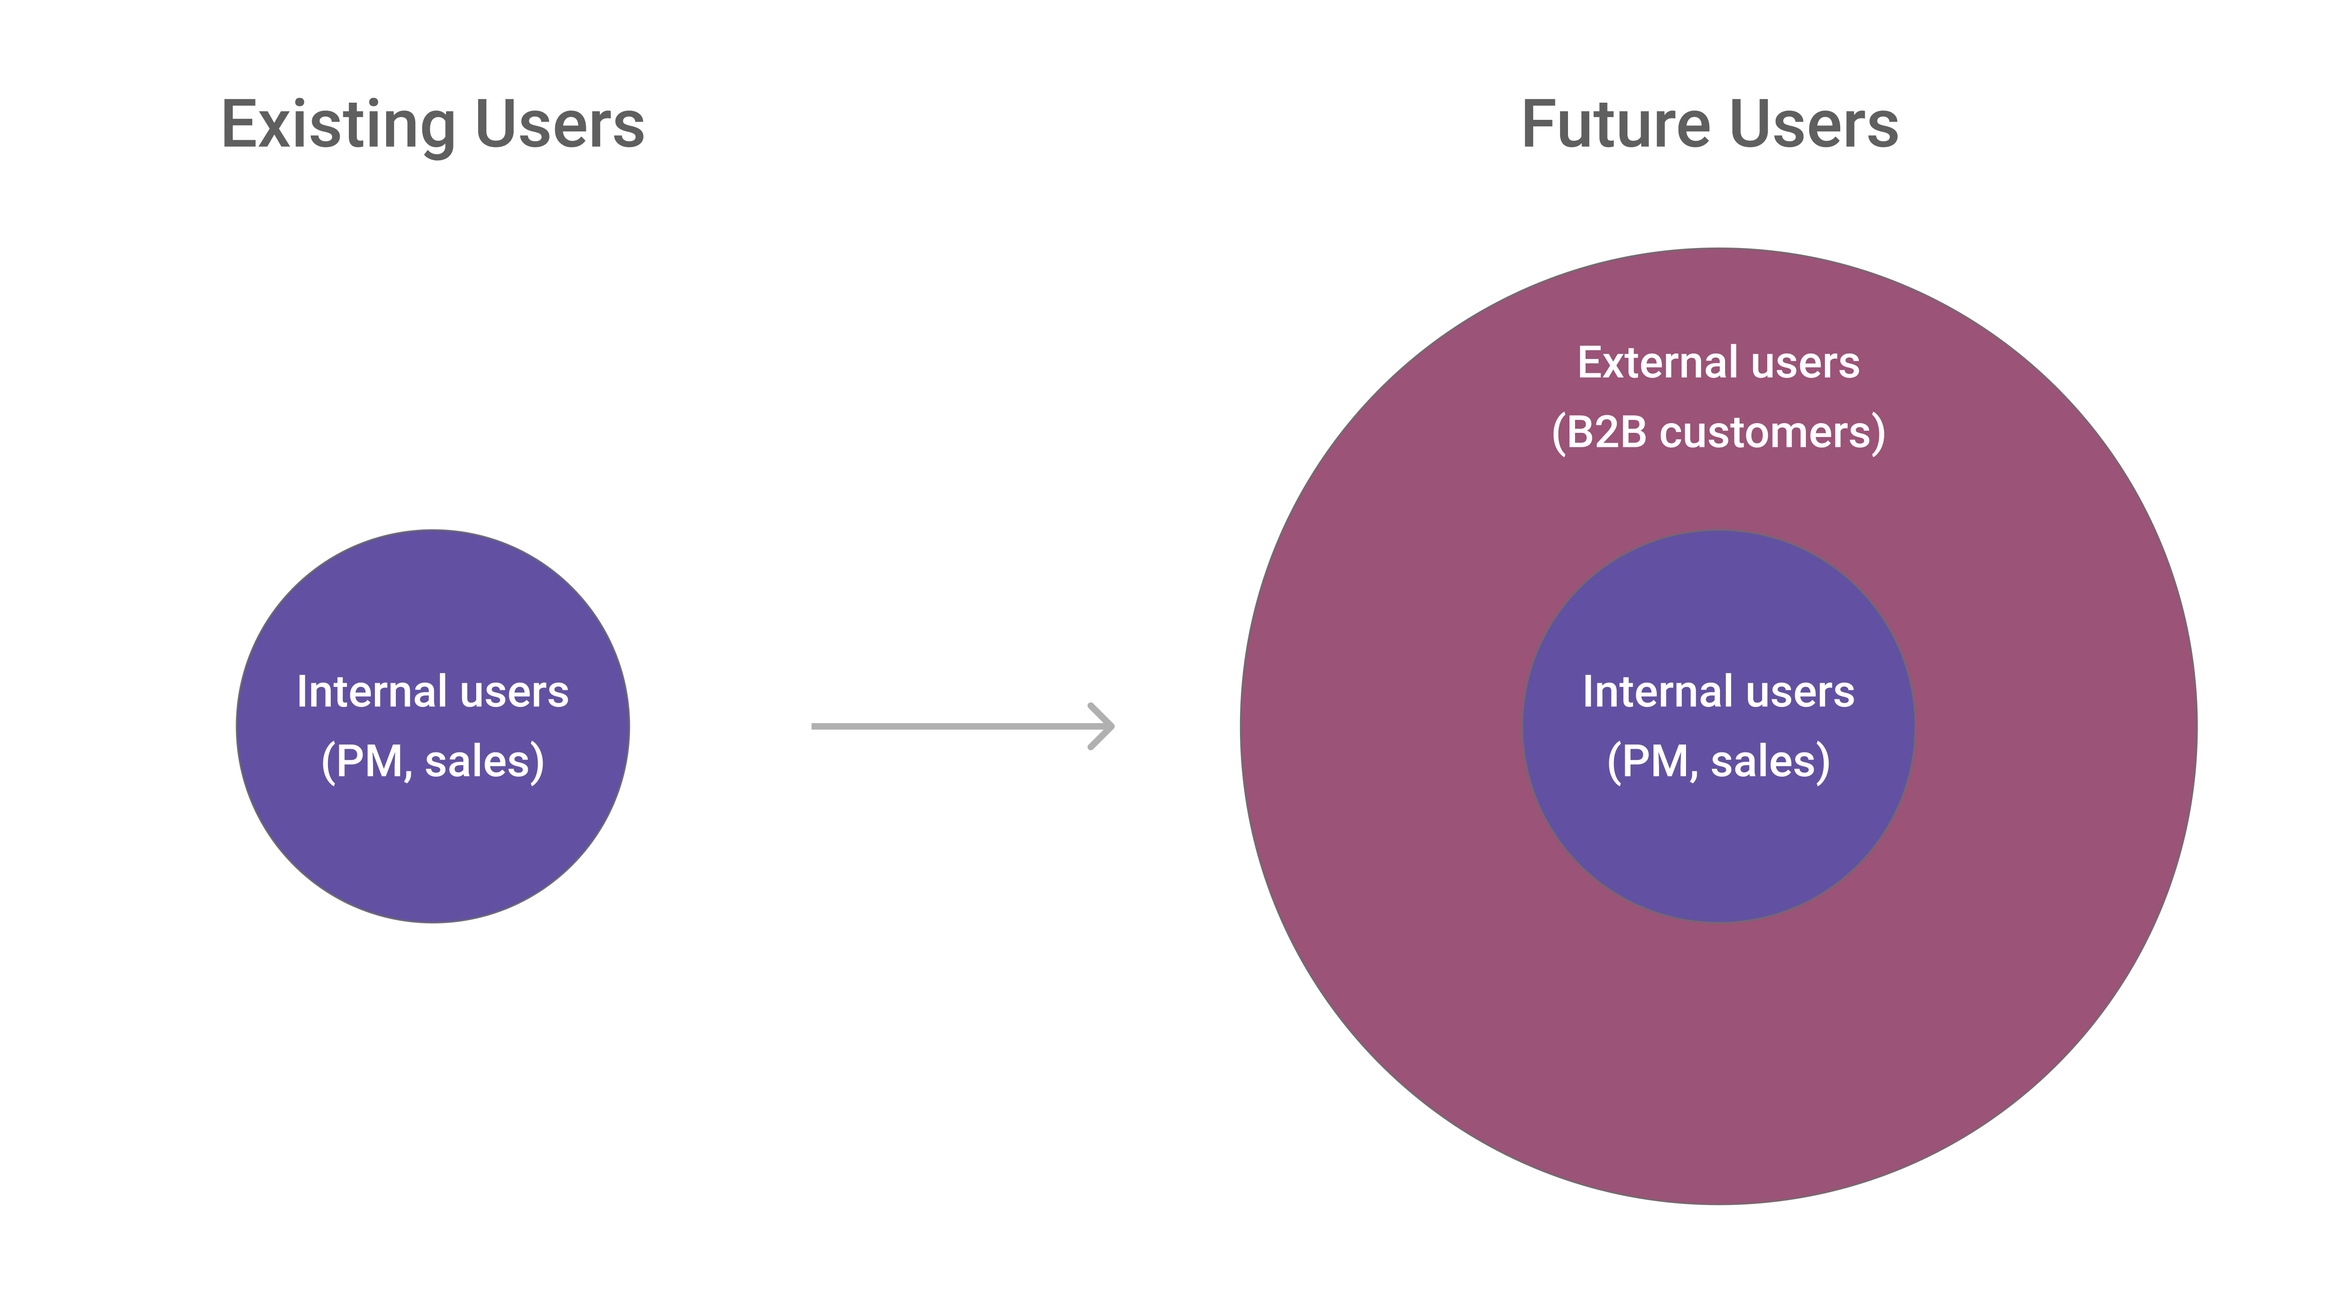
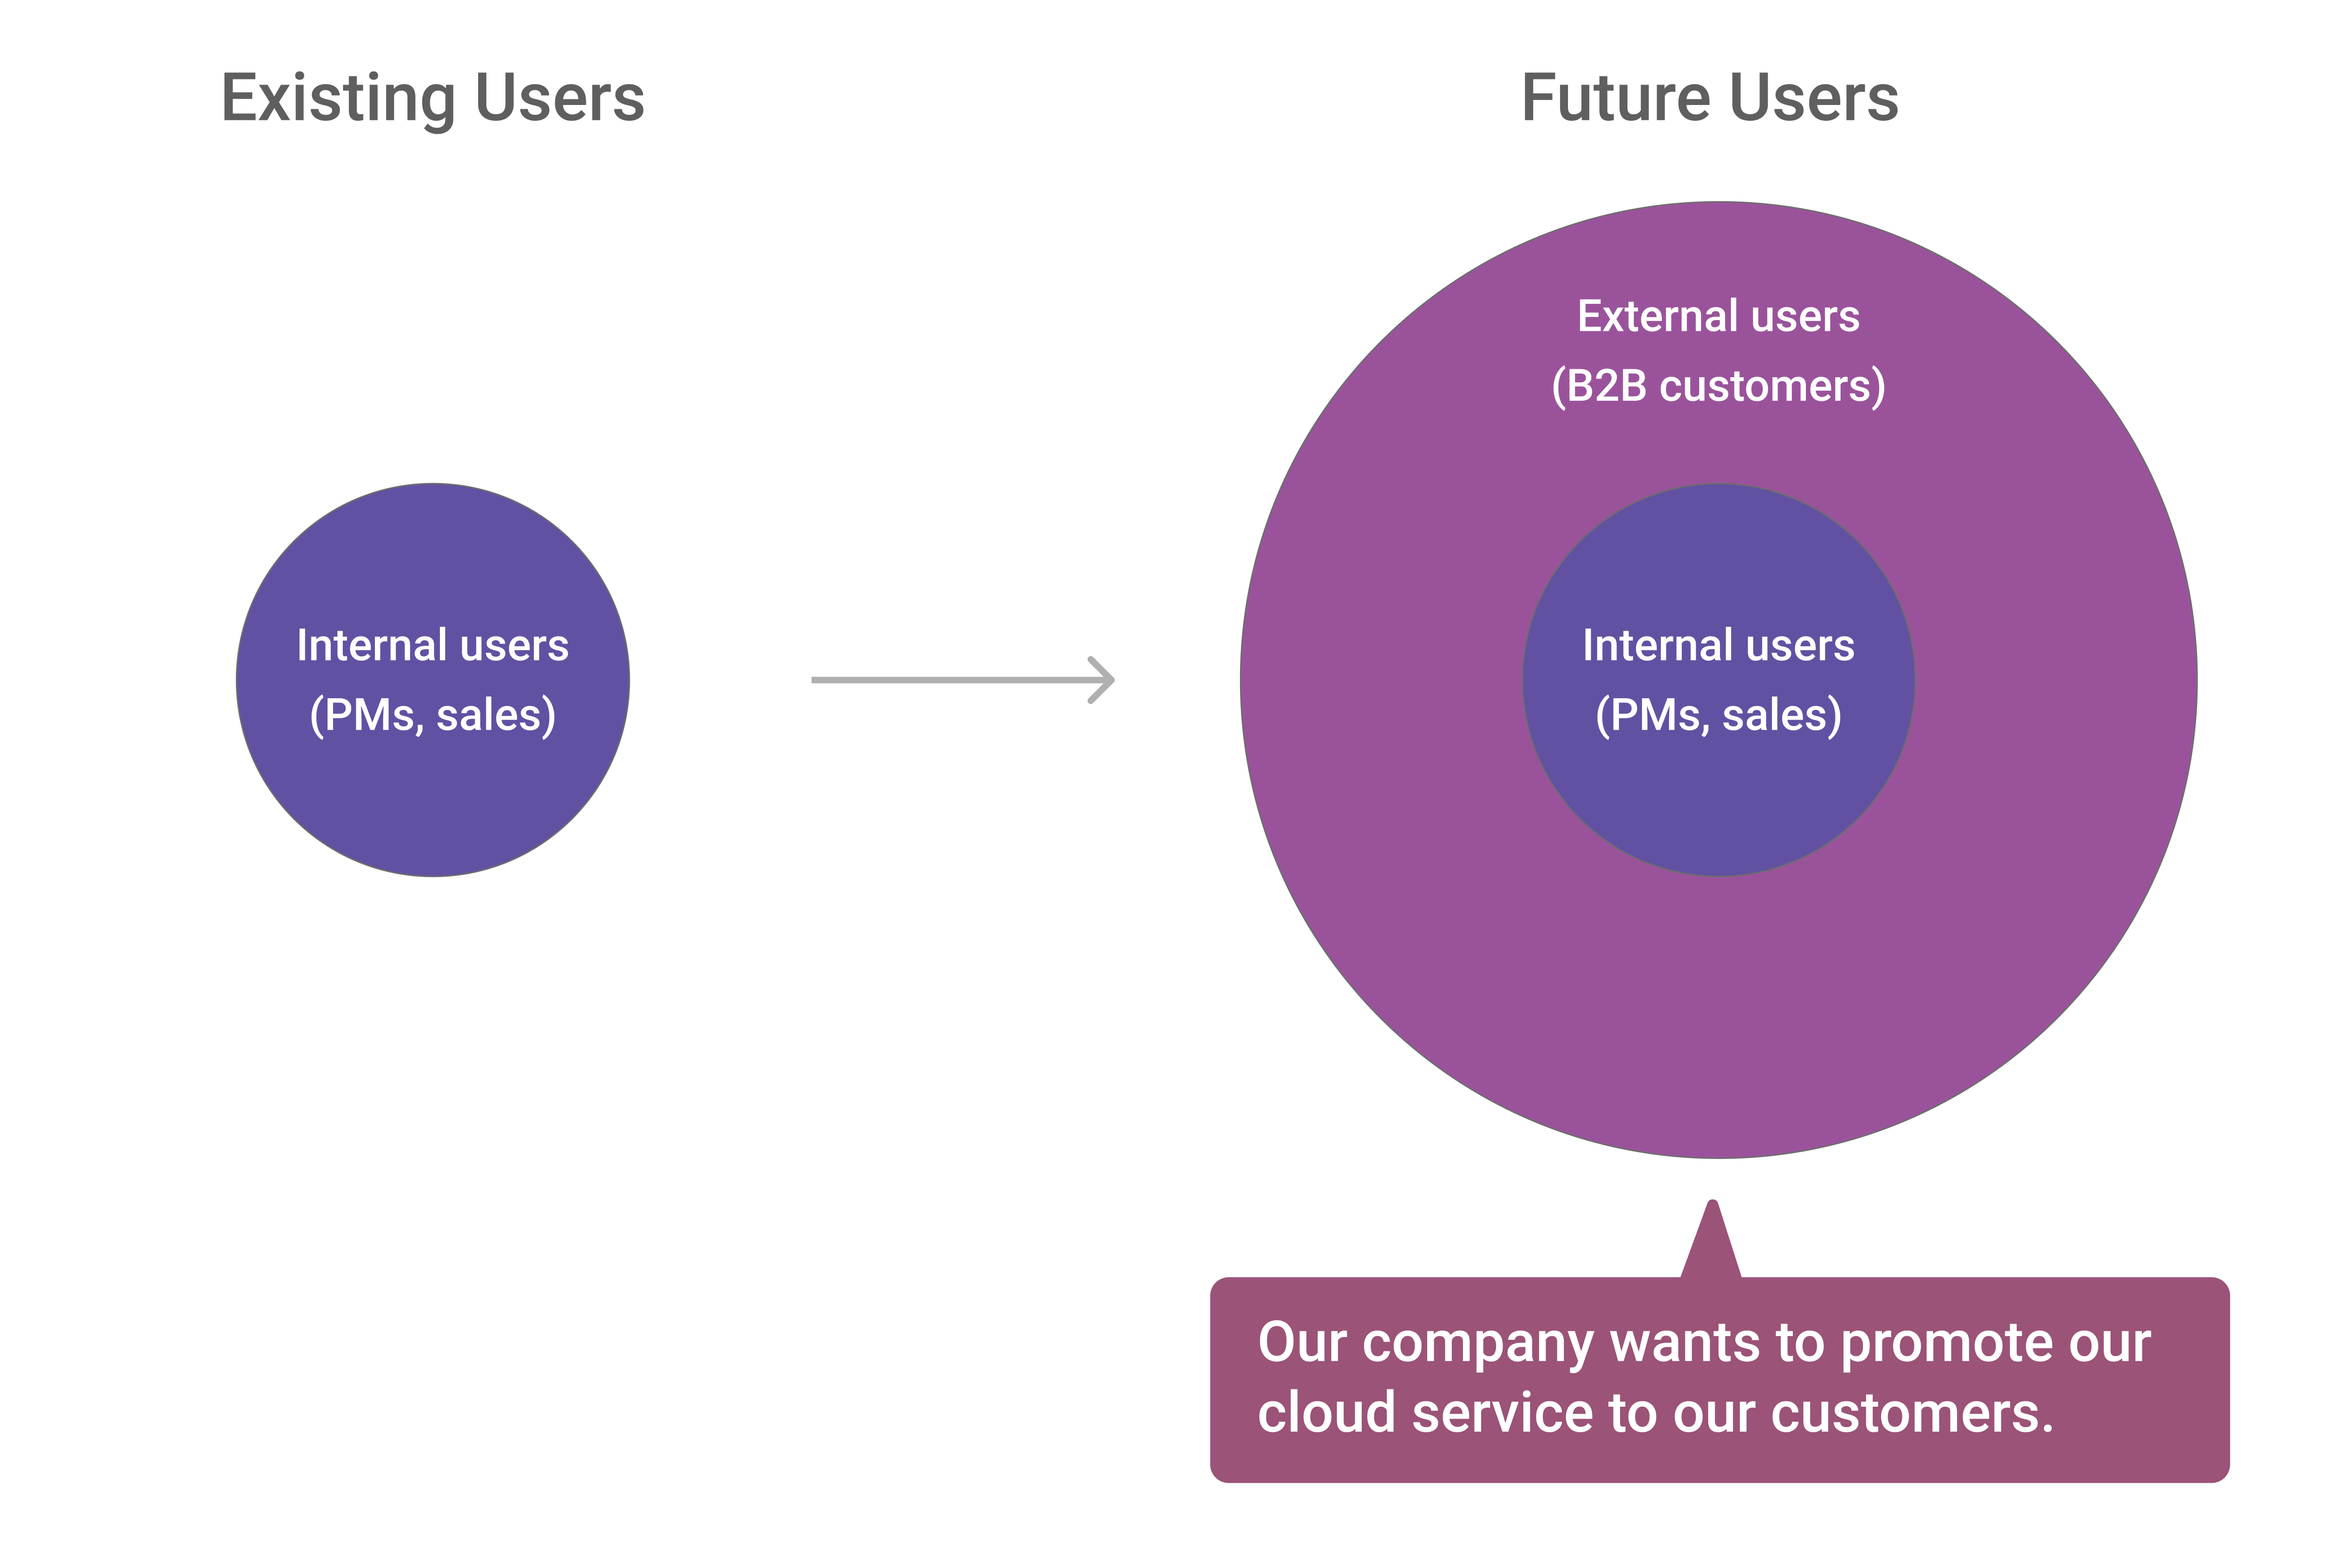
iot

diff --git a/works/iot/index.html b/works/iot/index.html
@@ -122,16 +122,11 @@
 							<div class="px-3 pr-md-4 mb-3" style="border-left: 2px solid #ddd">
 								<!-- <b>Introduction</b> -->
 								<p class="mb-3">IoT Device Management is a cloud service that updates devices' firmware and software
-									over-the-air (OTA) and remotely monitors or controls devices (MDM). This platform is
-									designed
-									for professional use. Our existing users are internal project
-									managers and
-									salespeople who help customers do the service. However, our company wants to promote it to our
-									customers. In the future, customers can
-									buy
-									and
-									operate the system themselves.</p>
-								<p class="mb-0"></p>
+									over-the-air (OTA) and remotely monitors or controls devices (MDM).</p>
+
+								<p>I was the sole designer in the team who is responsible for user
+									research, UX/UI design,
+									and some front-end development.</p>
 								</p>
 							</div>
 						</div>
@@ -159,25 +154,9 @@
 
 
 
-				<!-- <div class="list-img">
-					<a href="/img/portfolio/iot/new/ota.png" data-fancybox data-caption="The IoT Device Management is a cloud service for
-							users to update
-							batch devices' firmware and software over-the-air (OTA) and remotely monitor or control batch devices (MDM).">
-						<img src="/img/portfolio/iot/new/ota.png" style="max-width:540px;" alt="">
-					</a>
-					<div class="caption" style="max-width:670px; margin:0 auto;">IoT Device Management is a cloud service that
-						updates batch device firmware and software over-the-air (OTA) and remotely monitors or controls batch
-						devices (MDM).
-					</div>
-				</div> -->
 
-				<div class="list-img">
-					<a href="/img/portfolio/iot/new/users.png" data-fancybox data-caption="Expand Users">
-						<img src="/img/portfolio/iot/new/users.png" alt="" style="max-width: 670px;" class="my-1">
-					</a>
-					<div class="caption">The Business Goal: Expanding Users
-					</div>
-				</div>
+
+
 
 
 				<div class="seperate"></div>
@@ -225,6 +204,51 @@
 
 
 			<section class="js-scroll-step" id="research">
+
+				<!-- <div class="seperate"> ·&nbsp;&nbsp;&nbsp;·&nbsp;&nbsp;&nbsp;·</div>
+
+				<div class="list">
+					<h4>Business Goal: Expanding Users</h4>
+					<p>
+					</p>
+				</div>
+
+				<div class="list-img">
+					<a href="/img/portfolio/iot/new/ota.png" data-fancybox data-caption="The IoT Device Management is a cloud service for
+							users to update
+							batch devices' firmware and software over-the-air (OTA) and remotely monitor or control batch devices (MDM).">
+						<img src="/img/portfolio/iot/new/ota.png" style="max-width:540px;" alt="">
+					</a>
+					<div class="caption" style="max-width:670px; margin:0 auto;">IoT Device Management is a cloud service that
+						updates batch device firmware and software over-the-air (OTA) and remotely monitors or controls batch
+						devices (MDM).
+					</div>
+				</div> -->
+
+				<div class="seperate"> ·&nbsp;&nbsp;&nbsp;·&nbsp;&nbsp;&nbsp;·</div>
+
+
+				<div class="list">
+					<h4>Business Goal: Expanding Users</h4>
+					<p>This platform is
+						designed
+						for professional use. Our existing users are internal project
+						managers and
+						salespeople who help customers do the service. However, <b>our company wants to promote it to our
+							customers.</b> In the future, customers can
+						buy
+						and
+						operate the system themselves.
+					</p>
+				</div>
+
+				<div class="list-img">
+					<a href="/img/portfolio/iot/new/users.png" data-fancybox data-caption="Expand Users">
+						<img src="/img/portfolio/iot/new/users.png" alt="" style="max-width: 670px;" class="my-1">
+					</a>
+					<div class="caption">Business Goal: Expanding Users
+					</div>
+				</div>
 
 				<div class="seperate"> ·&nbsp;&nbsp;&nbsp;·&nbsp;&nbsp;&nbsp;·</div>
 				<div class="list">
@@ -394,7 +418,7 @@
 				<div class="list-img w85">
 
 					<div class="row">
-						<div class="col-12 col-md-5 pr-md-5 pl-md-0" style="text-align:left">
+						<div class="col-12 col-md-5 pr-md-4 pl-md-0" style="text-align:left">
 							<b class="bigger_title">(1) Brainstorming</b>
 							<p>People in various positions and departments presented different ideas.</p>
 						</div>
@@ -409,7 +433,7 @@
 					<div class="seperate"></div>
 
 					<div class="row">
-						<div class="col-12 col-md-5 pr-md-5 pl-md-0" style="text-align:left">
+						<div class="col-12 col-md-5 pr-md-4 pl-md-0" style="text-align:left">
 							<b class="bigger_title">(2) Organizing & Categorizing the Solution</b>
 							<p>Since some descriptions were repeated, I organized them into three categories—indicators, places, and
 								support. I invited everyone to vote for the five decisions they liked best.</p>
@@ -425,7 +449,7 @@
 					<div class="seperate"></div>
 
 					<div class="row">
-						<div class="col-12 col-md-5 pr-md-5 pl-md-0" style="text-align:left">
+						<div class="col-12 col-md-5 pr-md-4 pl-md-0" style="text-align:left">
 							<b class="bigger_title">(3) Prioritizing with an Impact & Effort Matrix</b>
 							<p>In the Low-Hanging Fruit quadrant, we will create a prototype to compare and evaluate the result. We
 								will ask the PM to evaluate the efforts and resources for items in the Big Bets quadrant. We will
@@ -466,7 +490,7 @@
 						<img src="/img/portfolio/iot/new/wireframe.png" alt="" style="width: 100%;" class="my-1">
 					</a>
 
-					<div class="caption">the user flow with wireframes
+					<div class="caption">The User Flow with Wireframes and Journey Map
 					</div>
 				</div>
 
@@ -480,12 +504,6 @@
 					<p>Based on the wireframe and user flow, I built the new product interface.
 					</p>
 				</div>
-
-
-
-
-
-				<div class="seperate"></div>
 
 
 				<div class="list-img w85">

diff --git a/index.html b/index.html
@@ -107,12 +107,13 @@
 
 					<a target="_blank" href="./Resume_YuChingLin_2021.pdf" class="outlined-btn d-inline-block">Résumé</a> -->
 					<a href="mailto:yuyuchinglin@gmail.com?subject=Hello!" class="full-btn d-inline-block">
-						<i class="fas fa-paper-plane"></i> Contact me
+						<!-- <i class="fas fa-paper-plane"></i> -->
+						Contact me
 					</a>
 
-					<a href="" class="outlined-btn d-inline-block"
-						onclick="Calendly.initPopupWidget({ url: 'https://calendly.com/yuyuchinglin/15min', text: 'Schedule time with me', color: '#9E6B57', textColor: '#ffffff', branding: true });return false;">
-						<i class="far fa-calendar-alt"></i> Schedule a Chat
+					<a target="_blank" href="/about/Resume_YuChingLin_2021.pdf" class="outlined-btn d-inline-block">
+						<!-- <i class="fas fa-file"></i> -->
+						Résumé
 					</a>
 
 

diff --git a/css/portfolio.css b/css/portfolio.css
@@ -361,6 +361,10 @@ body {
     width: 85%;
 }
 
+.list-img.w60 {
+    width: 60%;
+}
+
 #port .list p.quotes {
     font-style: italic;
     margin: 8px 0;
